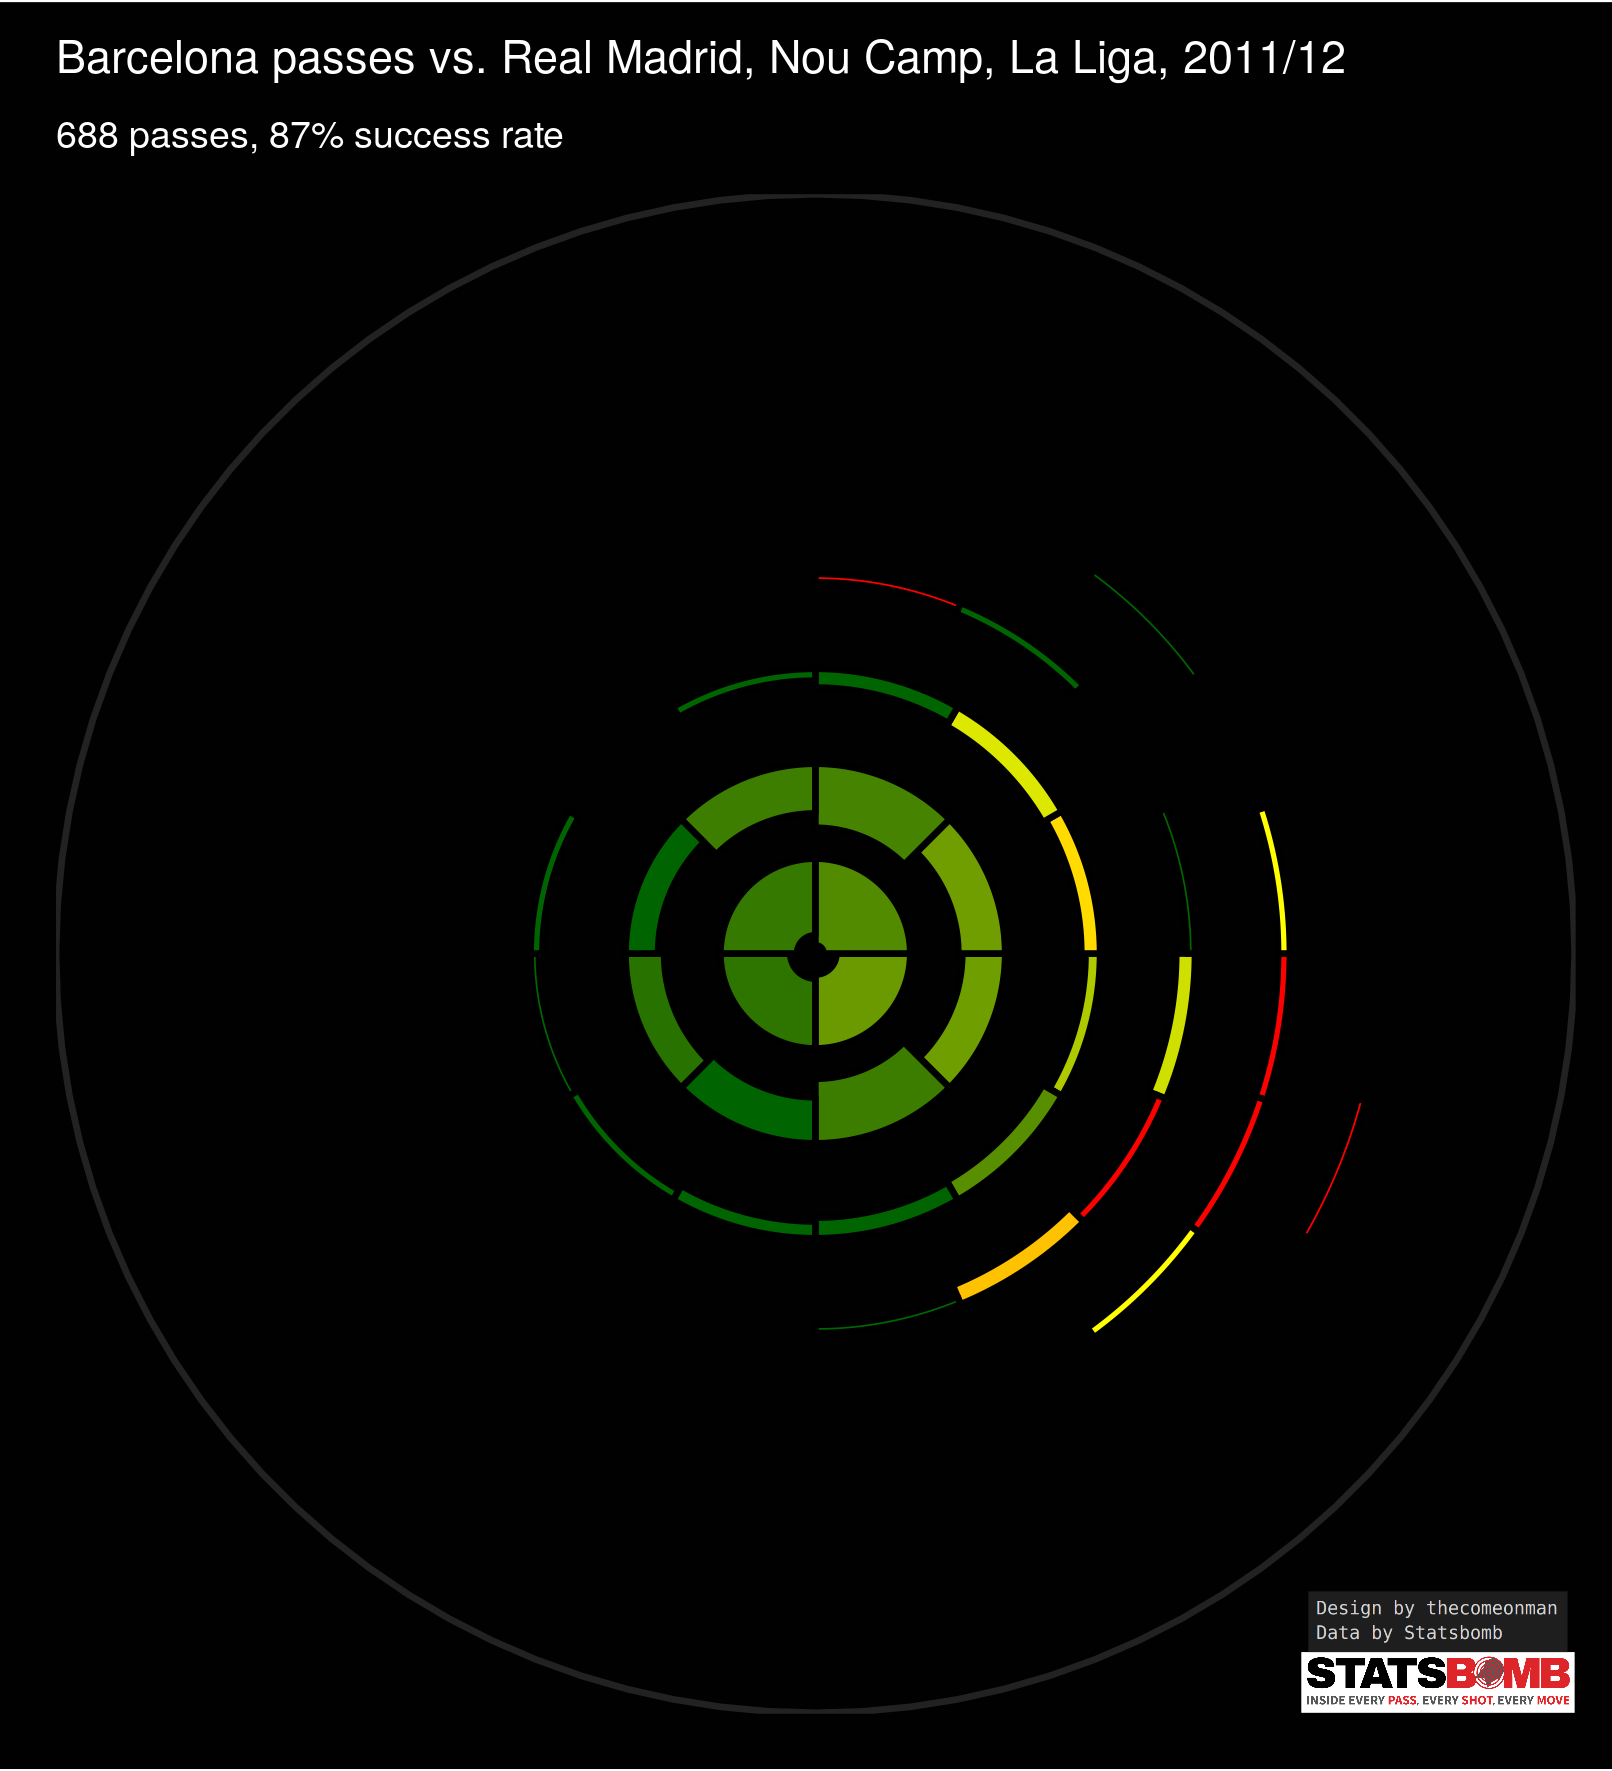
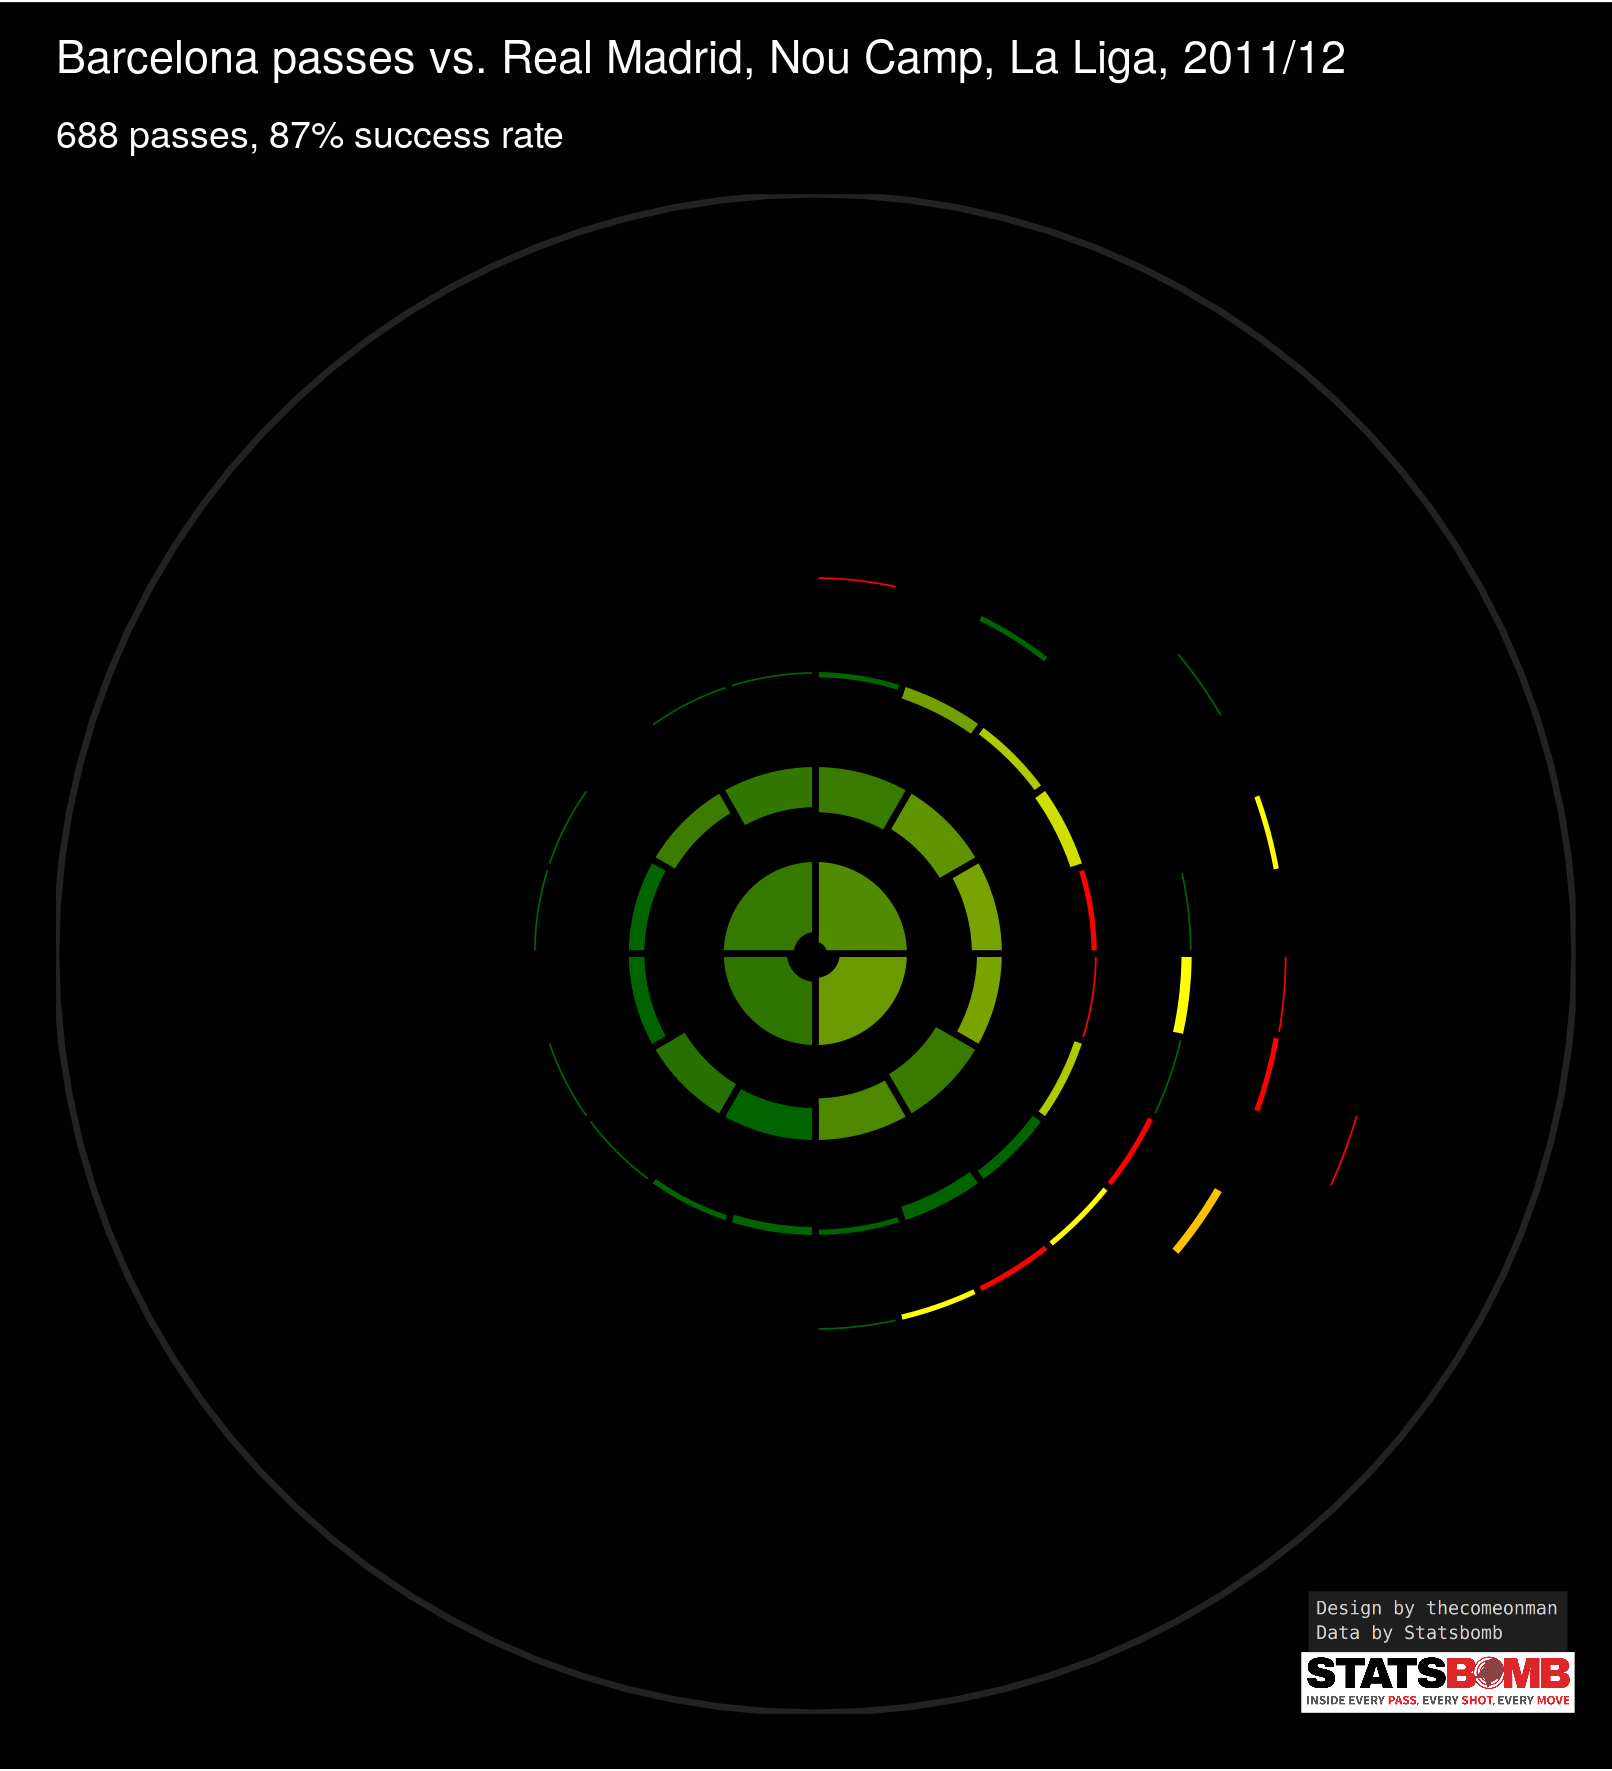
Better logic for block sizing.

diff --git a/README.md b/README.md
@@ -28,25 +28,27 @@ article on passing sonars</a> prominently featured the below template -
 ### With the design below, I try to solve these problems with some more minor enhancements
 
 -   Think of the chart as a bunch of concentric rings. Each ring
-    captures passes falling within a particular range of length. Each
-    block in the ring captures passes of the respective lengths in a
-    paritcular range of direction The blocks have been calculated in
-    such a way to cover approximately the same sized area of the pitch
-    as any other block, which is why each block covers a lesser part of
-    the circumference on passes of longer lengths compared to the part
-    of the circumference it covers on passes of shorter lengths. ( this
-    logic needs improvement for more equivalent blocks but the
-    philosophy is that )
+    captures passes falling within a particular range of lengths. The
+    rings are equally spaced so the increase in range from ring 1 to
+    ring 2 is the same as the increase in range from any ring n to ring
+    n + 1.
 
 -   The radius of the circle in the background of each sonar is
     proportional to the length of the pitch. You can use that as a
-    reference to get an idea of how long a pass actually was.
+    reference to get an idea of how long a pass actually
+
+-   Each block in the ring captures passes of the respective lengths in
+    a paritcular range of direction. The blocks have been calculated in
+    such a way to cover approximately the same sized area of the pitch
+    as any other block, which is why each block spans a lesser part of
+    the circumference on passes of longer lengths compared to the part
+    of the circumference it covers on passes of shorter lengths. was.
 
 -   The thickness of each block in the ring is proportional to the
     number of passes of that length and angle. ( It’s actuallly
     proportional to the square root of the number of passes, if I make
     it proportional then the blocks with few passes become too small to
-    be visible. )
+    be visible. Suggestions to solve this would be highly appreciated. )
 
 -   The colour of each block is proportional to the success percent of
     the passes associated with that block, going from red to dark green
